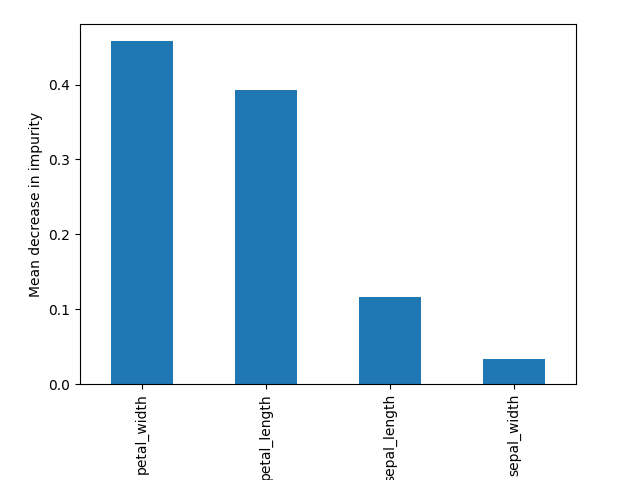
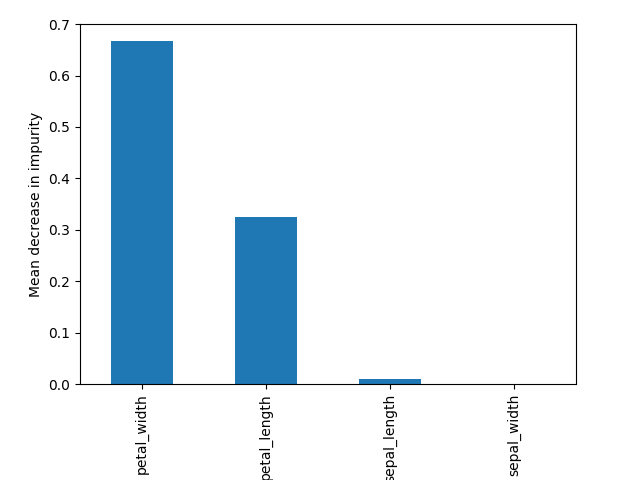
changed n_estimators to 100

diff --git a/dvc_plots/index.html b/dvc_plots/index.html
@@ -4,6 +4,11 @@
     
     <title>DVC Plot</title>
     
+
+    <script src="https://cdn.jsdelivr.net/npm/vega@5.20.2"></script>
+    <script src="https://cdn.jsdelivr.net/npm/vega-lite@5.2.0"></script>
+    <script src="https://cdn.jsdelivr.net/npm/vega-embed@6.18.2"></script>
+    
     <style>
         table {
             border-spacing: 15px;
@@ -12,6 +17,14 @@
 </head>
 <body>
     
+    <div id = "eval_plots_metrics_acc_tsv">
+        <script type = "text/javascript">
+            var spec = {"$schema": "https://vega.github.io/schema/vega-lite/v5.json", "data": {"values": [{"step": "0", "acc": "1.0", "rev": "workspace"}, {"step": "0", "acc": "0.9333333333333333", "rev": "HEAD"}]}, "title": {"text": "eval/plots/metrics/acc.tsv", "anchor": "middle"}, "width": 300, "height": 300, "params": [{"name": "smooth", "value": 0.001, "bind": {"input": "range", "min": 0.001, "max": 1, "step": 0.001}}], "encoding": {"x": {"field": "step", "type": "quantitative", "title": "step"}, "color": {"field": "rev", "scale": {"domain": ["workspace", "HEAD"], "range": ["#945dd6", "#13adc7"]}}, "strokeDash": {}}, "layer": [{"layer": [{"params": [{"name": "grid", "select": "interval", "bind": "scales"}], "mark": "line"}, {"transform": [{"filter": {"param": "hover", "empty": false}}], "mark": "point"}], "encoding": {"y": {"field": "acc", "type": "quantitative", "title": "acc", "scale": {"zero": false}}, "color": {"field": "rev", "type": "nominal"}}, "transform": [{"loess": "acc", "on": "step", "groupby": ["rev"], "bandwidth": {"signal": "smooth"}}]}, {"mark": {"type": "line", "opacity": 0.2}, "encoding": {"x": {"field": "step", "type": "quantitative", "title": "step"}, "y": {"field": "acc", "type": "quantitative", "title": "acc", "scale": {"zero": false}}, "color": {"field": "rev", "type": "nominal"}}}, {"mark": {"type": "circle", "size": 10}, "encoding": {"x": {"aggregate": "max", "field": "step", "type": "quantitative", "title": "step"}, "y": {"aggregate": {"argmax": "step"}, "field": "acc", "type": "quantitative", "title": "acc", "scale": {"zero": false}}, "color": {"field": "rev", "type": "nominal"}}}, {"transform": [{"calculate": "datum.rev", "as": "pivot_field"}, {"pivot": "pivot_field", "op": "mean", "value": "acc", "groupby": ["step"]}], "mark": {"type": "rule", "tooltip": {"content": "data"}, "stroke": "grey"}, "encoding": {"opacity": {"condition": {"value": 0.3, "param": "hover", "empty": false}, "value": 0}}, "params": [{"name": "hover", "select": {"type": "point", "fields": ["step"], "nearest": true, "on": "mouseover", "clear": "mouseout"}}]}]};
+            vegaEmbed('#eval_plots_metrics_acc_tsv', spec);
+        </script>
+    </div>
+    
+
         <div
             id="eval_plots_images_importance_png"
             style="border:1px solid black;text-align:center;
